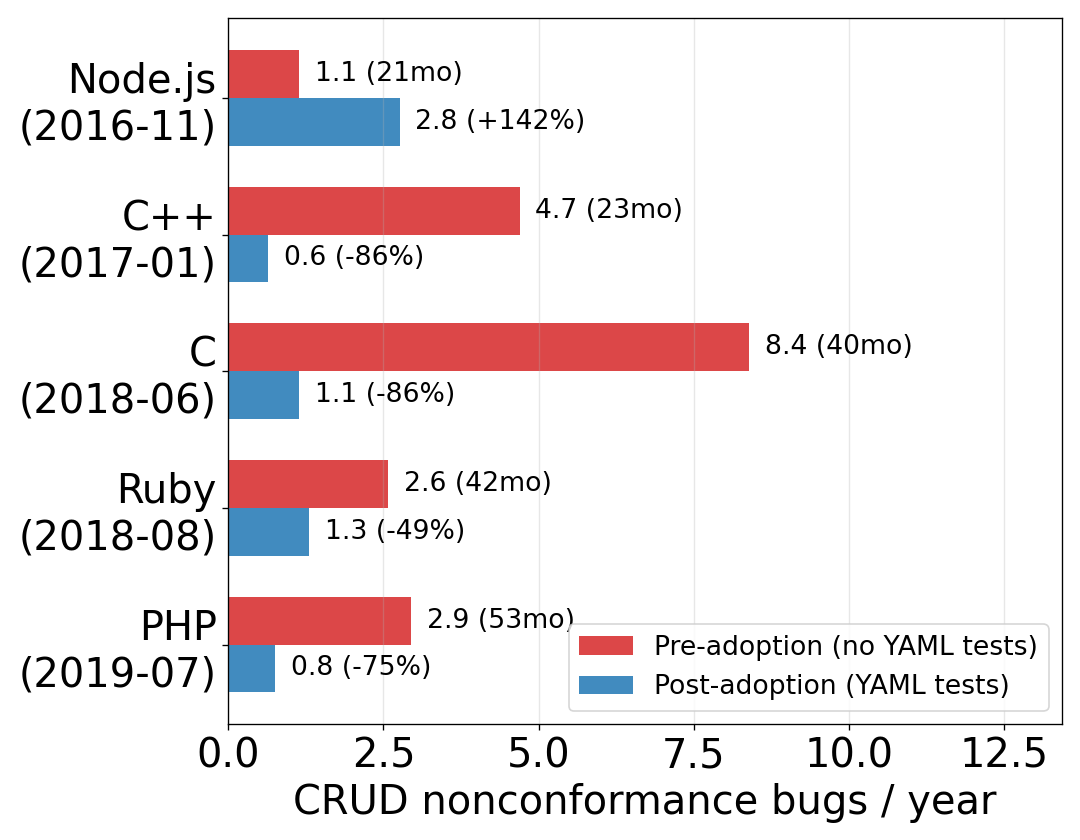
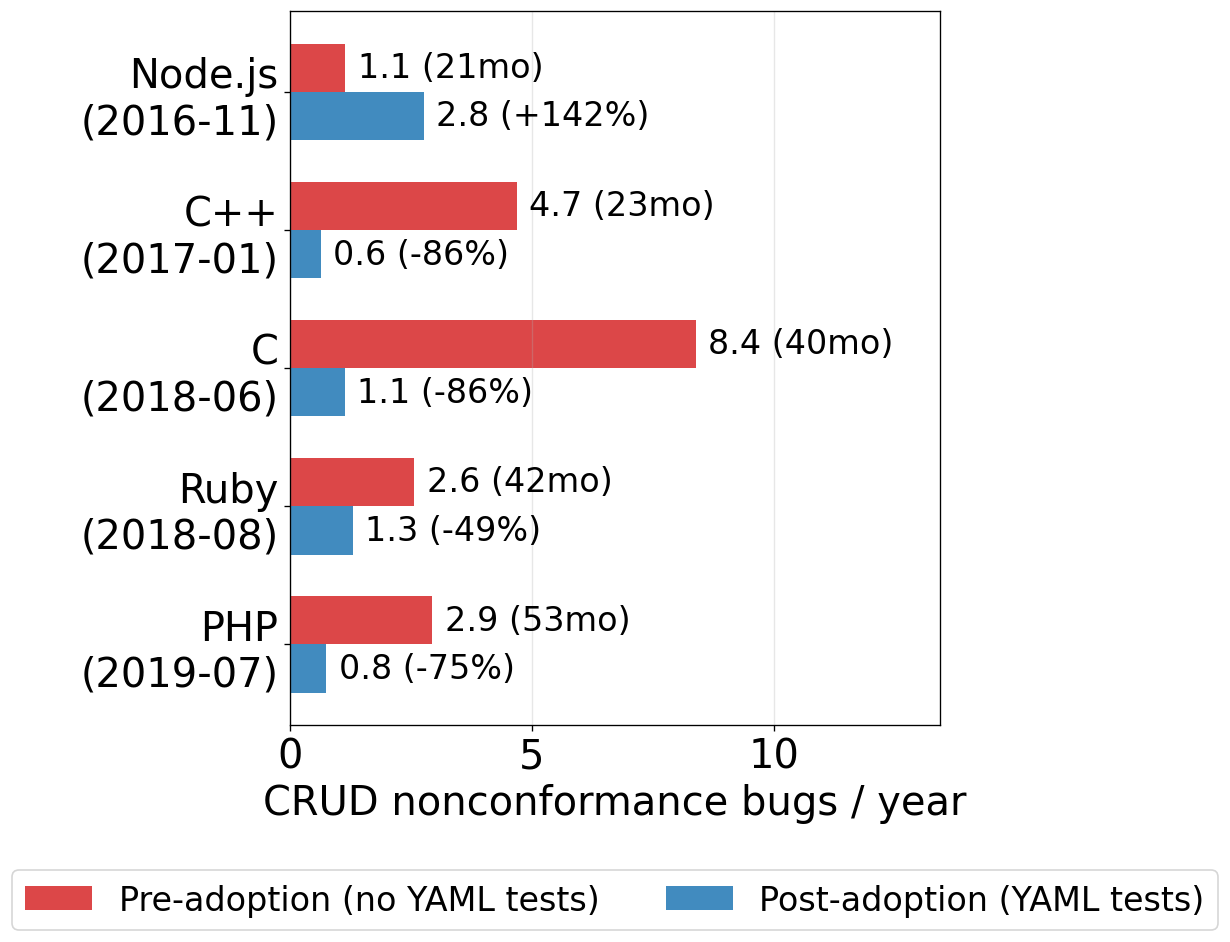
crud_late5: 20pt bar/legend fonts, legend below chart, bbox_inches=tight

Changed region(s): [[0.0, 0.0, 1.0, 0.9905]]

diff --git a/analysis/scripts/crud_analysis.py b/analysis/scripts/crud_analysis.py
@@ -205,7 +205,7 @@ def chart_late5(panel_by_driver):
     y = np.arange(len(drivers_ordered))
     height = 0.35
 
-    fig, ax = plt.subplots(figsize=(9, 7))
+    fig, ax = plt.subplots(figsize=(9, 8))
     ax.barh(y + height / 2,
             [pre_rates[d] for d in drivers_ordered],
             height, label="Pre-adoption (no YAML tests)",
@@ -221,12 +221,12 @@ def chart_late5(panel_by_driver):
     for yi, d in zip(y, drivers_ordered):
         v = pre_rates[d]
         ax.text(v + max_rate * 0.03, yi + height / 2,
-                f"{v:.1f} ({pre_mo[d]}mo)", va="center", fontsize=16)
+                f"{v:.1f} ({pre_mo[d]}mo)", va="center", fontsize=20)
     for bar, d in zip(bars_post, drivers_ordered):
         v = post_rates[d]
         chg = (v - pre_rates[d]) / pre_rates[d] * 100 if pre_rates[d] else 0
         ax.text(v + max_rate * 0.03, bar.get_y() + bar.get_height() / 2,
-                f"{v:.1f} ({chg:+.0f}%)", va="center", fontsize=16)
+                f"{v:.1f} ({chg:+.0f}%)", va="center", fontsize=20)
 
     ax.set_yticks(y)
     ax.set_yticklabels(
@@ -234,11 +234,12 @@ def chart_late5(panel_by_driver):
         fontsize=24)
     ax.set_xlabel("CRUD nonconformance bugs / year", fontsize=24)
     ax.tick_params(axis="x", labelsize=24)
-    ax.legend(loc="lower right", fontsize=16)
+    ax.legend(loc="upper center", bbox_to_anchor=(0.5, -0.18),
+              ncol=2, fontsize=20)
     ax.grid(True, alpha=0.3, axis="x")
     plt.tight_layout()
-    plt.savefig(PLOT_DIR / "crud_late5.pdf")
-    plt.savefig(PLOT_DIR / "crud_late5.png", dpi=120)
+    plt.savefig(PLOT_DIR / "crud_late5.pdf", bbox_inches="tight")
+    plt.savefig(PLOT_DIR / "crud_late5.png", dpi=120, bbox_inches="tight")
     plt.close()
 
 